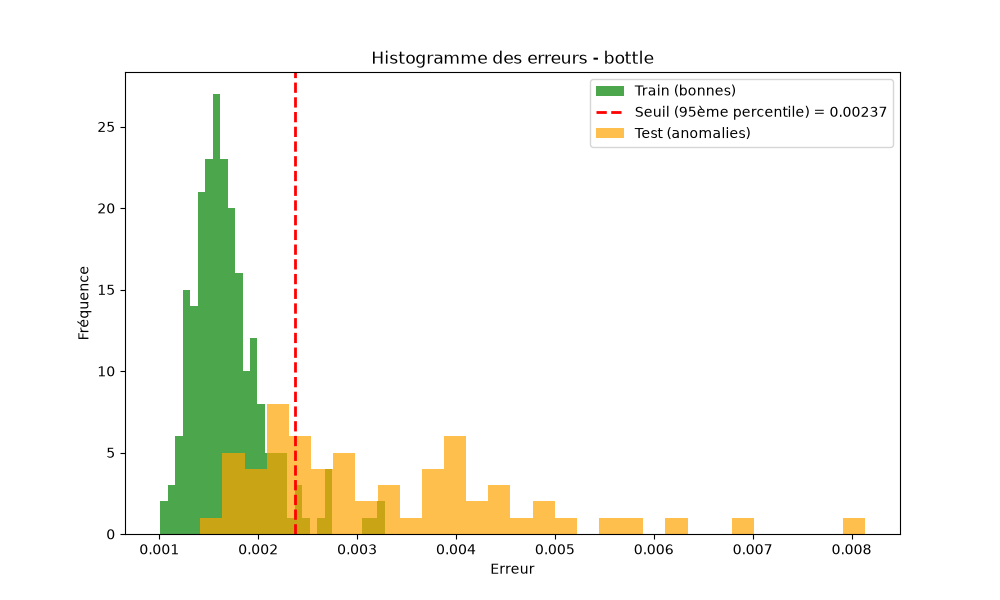
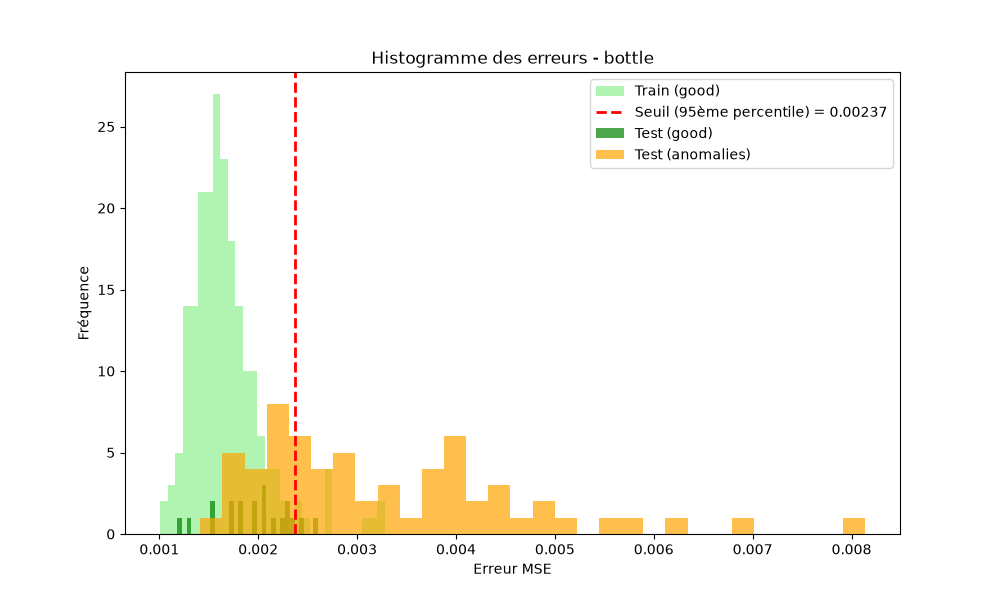
Entraînement nouvelles catégories

diff --git a/1-autoencoder/autoencode.py b/1-autoencoder/autoencode.py
@@ -51,104 +51,119 @@ if not os.path.exists(output_path):
     os.makedirs(output_path)
 
 # encodeur
-category = 'bottle'
-if no_train:
-    autoencoder = joblib.load(output_path / f"autoencoder_{category}.joblib")
-    #encoder = joblib.load(output_path / "encoder.joblib")
-    #decoder = joblib.load(output_path / "decoder.joblib")
+#categories = ['bottle', 'cable', 'capsule', 'carpet', 'grid',
+#    'hazelnut', 'leather', 'metal_nut', 'pill', 'screw',
+#    'tile', 'toothbrush', 'transistor', 'wood', 'zipper',
+#    'metal_plate']
+categories = ['bottle', 'cable']
 
-else:
-    images, nb_channels = load_liste_images(image_path, resized_dimension, category=category, type='train', quality="good", include_augmented=True)
-    print(f"Nombre d'images chargées : {len(images)}")
+for category in categories:
 
-    encoder, decoder, autoencoder = create_model(resized_dimension, nb_channels=nb_channels)
+    train_cat = (not no_train) | (not (output_path / f"autoencoder_{category}.joblib").is_file())
+    if train_cat:
+        
+        images, nb_channels = load_liste_images(image_path, resized_dimension, category=category, type='train', quality="good", include_augmented=True)
+        print(f"Nombre d'images chargées : {len(images)}")
 
-    autoencoder.summary()
+        encoder, decoder, autoencoder = create_model(resized_dimension, nb_channels=nb_channels)
 
-    history = autoencoder.fit(
-        images, images, 
-        batch_size=32, 
-        epochs=30, 
-        shuffle=True,
-        validation_split=0.1,  # 10% des images pour la validation
-        verbose=1, 
+        autoencoder.summary()
+
+        history = autoencoder.fit(
+            images, images, 
+            batch_size=32, 
+            epochs=30, 
+            shuffle=True,
+            validation_split=0.1,  # 10% des images pour la validation
+            verbose=1, 
+        )
+
+        # Sauvegarde du modèle
+        joblib.dump(autoencoder, output_path / f"autoencoder_{category}.joblib")
+        #joblib.dump(encoder, output_path / "encoder.joblib")
+        #joblib.dump(decoder, output_path / "decoder.joblib")
+
+        save_history_plot(history, output_path / f"history_plot_{category}.png")
+
+    else:
+        autoencoder = joblib.load(output_path / f"autoencoder_{category}.joblib")
+        #encoder = joblib.load(output_path / "encoder.joblib")
+        #decoder = joblib.load(output_path / "decoder.joblib")
+
+    #########################
+    # Chargement des images #
+    #########################
+
+    # Images d'entraînement
+    images_train_flat, nb_channels = load_liste_images(image_path, resized_dimension, category=category, type='train', quality="good", include_augmented=False)
+    print(f"Nombre d'images chargées : {len(images_train_flat)}")
+    images_train = images_train_flat.reshape(-1, resized_dimension[0], resized_dimension[1], nb_channels)
+
+    # Prédiction sur les images d'entraînement
+    pred_train_flat = autoencoder.predict(images_train_flat)
+    pred_train = pred_train_flat.reshape(-1, resized_dimension[0], resized_dimension[1], nb_channels)
+
+    #mse_train = np.sum((images_train_flat - pred_train_flat)**2, axis=1) / len(images_train_flat)
+    mse_train = ((images_train_flat - pred_train_flat)**2).mean(axis=1)
+
+    # Images de tests en anomalie
+    images_test_anomaly_flat, nb_channels_test_anomaly = load_liste_images(image_path, resized_dimension, category=category, type='test', quality="anomaly", include_augmented=False)
+    print(f"Nombre d'images de test chargées : {len(images_test_anomaly_flat)}")
+    images_test_anomaly = images_test_anomaly_flat.reshape(-1, resized_dimension[0], resized_dimension[1], nb_channels_test_anomaly)
+
+    pred_test_anomaly_flat = autoencoder.predict(images_test_anomaly_flat)
+    pred_test_anomaly = pred_test_anomaly_flat.reshape(-1, resized_dimension[0], resized_dimension[1], nb_channels_test_anomaly)
+
+    mse_test_anomaly = ((images_test_anomaly_flat - pred_test_anomaly_flat)**2).mean(axis=1)
+
+    # Images de test good
+    images_test_good_flat, nb_channels_test_good = load_liste_images(image_path, resized_dimension, category=category, type='test', quality="good", include_augmented=False)
+    print(f"Nombre d'images de test chargées : {len(images_test_good_flat)}")
+    images_test_good = images_test_good_flat.reshape(-1, resized_dimension[0], resized_dimension[1], nb_channels_test_good)
+
+    pred_test_good_flat = autoencoder.predict(images_test_good_flat)
+    pred_test_good = pred_test_good_flat.reshape(-1, resized_dimension[0], resized_dimension[1], nb_channels_test_good)
+
+    mse_test_good = ((images_test_good_flat - pred_test_good_flat)**2).mean(axis=1)
+
+    ##################
+    # Visualisations #
+    ##################
+
+    # Visualisation des images reconstruites
+    fig.compare_orig_encoded(images_train, pred_train, output_path, f"images_reconstruites_train_good_{category}.png")
+
+    # Histogramme des erreurs sur les images d'entraînement (bonnes)
+    threshold_mse = np.percentile(mse_train, 95)
+    print("Threshold MSE =", threshold_mse)
+
+    fig.histogramme_erreurs(
+        images_train_flat, pred_train_flat, 
+        np.concat([images_test_good_flat, images_test_anomaly_flat], axis=0), 
+        np.concat([pred_test_good_flat, pred_test_anomaly_flat], axis=0), 
+        np.concat([np.zeros((len(images_test_good_flat))), np.ones((len(images_test_anomaly_flat)))], axis=0), 
+        threshold_mse, 
+        output_path, 
+        f"histogramme_erreurs_{category}.png", 
+        category
     )
 
-    # Sauvegarde du modèle
-    joblib.dump(autoencoder, output_path / f"autoencoder_{category}.joblib")
-    #joblib.dump(encoder, output_path / "encoder.joblib")
-    #joblib.dump(decoder, output_path / "decoder.joblib")
+    # matrice de confusion
+    y_true = np.concatenate([np.zeros(len(mse_test_good)), np.ones(len(mse_test_anomaly))])
+    y_pred = np.concatenate([mse_test_good > threshold_mse, mse_test_anomaly > threshold_mse])
+    #print("y_true=", y_true[:15])
+    #print("y_pred=", y_pred[:15])
+    #print("mse_test_good=", mse_test_good[:15])
+    #print("mse_train=", mse_train[:15])
 
-    save_history_plot(history, output_path / "history_plot.png")
+    fig.draw_confusion_matrix(y_true, y_pred, output_path, f"matrice_confusion_{category}.png", category)
 
-#########################
-# Chargement des images #
-#########################
+    # ROC curve
+    fig.draw_roc_curve(np.concatenate([mse_test_good, mse_test_anomaly]), 
+                    np.concatenate([np.zeros(len(mse_test_good)), np.ones(len(mse_test_anomaly))]), 
+                    output_path, 
+                    output_filename=f"roc_curve_{category}.png", 
+                    category=category)
 
-# Images d'entraînement
-images_train_flat, nb_channels = load_liste_images(image_path, resized_dimension, category=category, type='train', quality="good", include_augmented=False)
-print(f"Nombre d'images chargées : {len(images_train_flat)}")
-images_train = images_train_flat.reshape(-1, resized_dimension[0], resized_dimension[1], nb_channels)
-
-# Prédiction sur les images d'entraînement
-pred_train_flat = autoencoder.predict(images_train_flat)
-pred_train = pred_train_flat.reshape(-1, resized_dimension[0], resized_dimension[1], nb_channels)
-
-#mse_train = np.sum((images_train_flat - pred_train_flat)**2, axis=1) / len(images_train_flat)
-mse_train = ((images_train_flat - pred_train_flat)**2).mean(axis=1)
-
-# Images de tests en anomalie
-images_test_anomaly_flat, nb_channels_test_anomaly = load_liste_images(image_path, resized_dimension, category=category, type='test', quality="anomaly", include_augmented=False)
-print(f"Nombre d'images de test chargées : {len(images_test_anomaly_flat)}")
-images_test_anomaly = images_test_anomaly_flat.reshape(-1, resized_dimension[0], resized_dimension[1], nb_channels_test_anomaly)
-
-pred_test_anomaly_flat = autoencoder.predict(images_test_anomaly_flat)
-pred_test_anomaly = pred_test_anomaly_flat.reshape(-1, resized_dimension[0], resized_dimension[1], nb_channels_test_anomaly)
-
-mse_test_anomaly = ((images_test_anomaly_flat - pred_test_anomaly_flat)**2).mean(axis=1)
-
-# Images de test good
-images_test_good_flat, nb_channels_test_good = load_liste_images(image_path, resized_dimension, category=category, type='test', quality="good", include_augmented=False)
-print(f"Nombre d'images de test chargées : {len(images_test_good_flat)}")
-images_test_good = images_test_good_flat.reshape(-1, resized_dimension[0], resized_dimension[1], nb_channels_test_good)
-
-pred_test_good_flat = autoencoder.predict(images_test_good_flat)
-pred_test_good = pred_test_good_flat.reshape(-1, resized_dimension[0], resized_dimension[1], nb_channels_test_good)
-
-mse_test_good = ((images_test_good_flat - pred_test_good_flat)**2).mean(axis=1)
-
-##################
-# Visualisations #
-##################
-
-# Visualisation des images reconstruites
-fig.compare_orig_encoded(images_train, pred_train, output_path, "images_reconstruites_train_good.png")
-
-# Histogramme des erreurs sur les images d'entraînement (bonnes)
-threshold_mse = np.percentile(mse_train, 95)
-print("Threshold MSE =", threshold_mse)
-
-fig.histogramme_erreurs(np.concat([images_train_flat, images_test_good_flat, images_test_anomaly_flat], axis=0), 
-                        np.concat([pred_train_flat, pred_test_good_flat, pred_test_anomaly_flat], axis=0), 
-                        np.concat([np.zeros((len(images_train_flat))), np.zeros((len(images_test_good_flat))), np.ones((len(images_test_anomaly_flat)))], axis=0), 
-                        threshold_mse, 
-                        output_path, 
-                        f"histogramme_erreurs_{category}.png", 
-                        category
-                        )
-
-# matrice de confusion
-y_true = np.concatenate([np.zeros(len(mse_test_good)), np.ones(len(mse_test_anomaly))])
-y_pred = np.concatenate([mse_test_good > threshold_mse, mse_test_anomaly > threshold_mse])
-
-fig.draw_confusion_matrix(y_true, y_pred, output_path, f"matrice_confusion_{category}.png", category)
-
-# ROC curve
-fig.draw_roc_curve(np.concatenate([mse_train, mse_test_anomaly]), 
-                   np.concatenate([np.zeros(len(mse_train)), np.ones(len(mse_test_anomaly))]), 
-                   output_path, 
-                   output_filename=f"roc_curve_{category}.png", 
-                   category=category)
-
-# Visualisation des images reconstruites pour les anomalies
-fig.compare_orig_encoded(images_test_anomaly, pred_test_anomaly, output_path, "images_reconstruites_test_anomalies.png")
+    # Visualisation des images reconstruites pour les anomalies
+    fig.compare_orig_encoded(images_test_anomaly, pred_test_anomaly, output_path, f"images_reconstruites_test_anomalies_{category}.png")

diff --git a/1-autoencoder/autoencode_figures.py b/1-autoencoder/autoencode_figures.py
@@ -48,12 +48,16 @@ def compare_orig_encoded(orig_images, encoded_images, output_path, output_filena
     plt.savefig(output_path / output_filename)
 
 # Histogramme des erreurs sur les images d'entraînement (bonnes)
-def histogramme_erreurs(orig_images_flat, encoded_images_flat, y_true, threshold, output_path, output_filename="histogramme_erreurs.png", category=""):
-    mse = ((orig_images_flat - encoded_images_flat)**2).mean(axis=1)
+def histogramme_erreurs(orig_train_flat, encoded_train_flat, 
+                        orig_test_flat, encoded_test_flat, y_true, 
+                        threshold, 
+                        output_path, output_filename="histogramme_erreurs.png", category=""):
+    mse_train = ((orig_train_flat - encoded_train_flat)**2).mean(axis=1)
+    mse_test = ((orig_test_flat - encoded_test_flat)**2).mean(axis=1)
 
     plt.figure(figsize=(10,6))
-    plt.hist(mse[y_true==0], bins=30, color='green', alpha=0.7, label='Train (bonnes)')
-    plt.xlabel('Erreur')
+    plt.hist(mse_train, bins=30, color='lightgreen', alpha=0.7, label='Train (good)')
+    plt.xlabel('Erreur MSE')
     plt.ylabel('Fréquence')
     plt.title(f'Histogramme des erreurs - {category}')
 
@@ -61,7 +65,8 @@ def histogramme_erreurs(orig_images_flat, encoded_images_flat, y_true, threshold
     plt.axvline(threshold, color='red', linestyle='dashed', linewidth=2, label=f'Seuil (95ème percentile) = {threshold:.5f}')
 
     # Histogramme des erreurs sur les images de test (anomalies)
-    plt.hist(mse[y_true==1], bins=30, color='orange', alpha=0.7, label='Test (anomalies)')
+    plt.hist(mse_test[y_true==0], bins=30, color='green', alpha=0.7, label='Test (good)')
+    plt.hist(mse_test[y_true==1], bins=30, color='orange', alpha=0.7, label='Test (anomalies)')
     plt.legend()
     plt.savefig(output_path / output_filename)
 